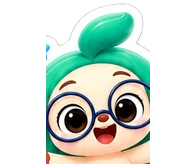
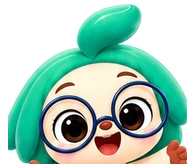
Characters cut free of the sticker, and the animals the games need back
The four friends were cut from the birthday sticker sheet with the white
sticker rim and the floating stars still attached, which read as a cutout
rather than a character. They are now separated by colour instead of by
the sticker's shape: the pale rim and shadow flood away with the
background, and only the largest painted object survives. What touches a
friend stays (Jeni's flower, Pinkfong's star); what floats beside them
does not. Anchors re-measured, since losing the rim changed the
proportions.

Also restores seven animal pictures. Deleting the old cast took
art/char/bear-idle and six others with it, but core/icons.js points
learning emoji at those same files — so a frog, a fox or a penguin in a
lesson had no picture at all, and the shadow-matching game could deal a
blank card. Thirty-one uses across the curriculum were affected. They are
back as learning pictures only; the cast stays the four party friends.

diff --git a/animal-friends-v2/sw.js b/animal-friends-v2/sw.js
@@ -8,12 +8,13 @@
    Bump VERSION whenever any file changes, or returning visitors
    keep the old copy.
    ============================================================ */
-const VERSION = 'af-naura-1.0.0';
+const VERSION = 'af-naura-1.1.0';
 
 const FILES = [
   './', 'index.html', 'privacy.html', 'manifest.webmanifest', 'icon.svg', 'icon-192.png', 'icon-512.png',
   'vendor/three.min.js', 'vendor/fredoka.woff2',
   'art/bg-meadow.jpg', 'art/bg-abc.jpg', 'art/bg-stem.jpg', 'art/bg-heart.jpg', 'art/bg-play.jpg', 'art/bg-island.jpg', 'art/bg-map.jpg',
+  'art/char/bear-idle.webp', 'art/char/fox-idle.webp', 'art/char/frog-idle.webp', 'art/char/penguin-idle.webp', 'art/char/chick-idle.webp', 'art/char/panda-idle.webp', 'art/char/dino-idle.webp',
   'art/char/pinkfong-idle.webp', 'art/char/pinkfong-face.webp', 'art/char/hogi-idle.webp', 'art/char/hogi-face.webp', 'art/char/jeni-idle.webp', 'art/char/jeni-face.webp', 'art/char/poki-idle.webp', 'art/char/poki-face.webp',
   'art/party/party-logo.webp', 'art/party/party-banner.webp', 'art/party/party-cake.webp', 'art/party/party-gift.webp', 'art/party/party-star.webp', 'art/party/party-wand.webp', 'art/party/party-thanks.webp', 'art/party/party-treats.webp',
   'art/pic/act-brokenheart.webp', 'art/pic/act-clap.webp', 'art/pic/act-crash.webp', 'art/pic/act-flowers.webp', 'art/pic/act-grab.webp', 'art/pic/act-handup.webp', 'art/pic/act-hide.webp', 'art/pic/act-hit.webp', 'art/pic/act-jump.webp', 'art/pic/act-leftout.webp', 'art/pic/act-look.webp', 'art/pic/act-no.webp', 'art/pic/act-please.webp', 'art/pic/act-run.webp', 'art/pic/act-scrub.webp', 'art/pic/act-share.webp', 'art/pic/act-stop.webp', 'art/pic/act-stophand.webp', 'art/pic/act-talk.webp', 'art/pic/act-thanks.webp', 'art/pic/act-thumbsdown.webp', 'art/pic/act-touch.webp', 'art/pic/act-walkaway.webp', 'art/pic/act-wave.webp', 'art/pic/arm.webp', 'art/pic/arrow-down.webp', 'art/pic/arrow-up.webp', 'art/pic/ball-blue.webp', 'art/pic/ball-green.webp', 'art/pic/ball-orange.webp', 'art/pic/ball-purple.webp', 'art/pic/ball-red.webp', 'art/pic/ball-yellow.webp', 'art/pic/bath.webp', 'art/pic/coat.webp', 'art/pic/dress.webp', 'art/pic/ear.webp', 'art/pic/eye.webp', 'art/pic/face-angry.webp', 'art/pic/face-awake.webp', 'art/pic/face-bored.webp', 'art/pic/face-brushing.webp', 'art/pic/face-calm.webp', 'art/pic/face-cold.webp', 'art/pic/face-excited.webp', 'art/pic/face-eyeroll.webp', 'art/pic/face-gentle.webp', 'art/pic/face-happy.webp', 'art/pic/face-hot.webp', 'art/pic/face-huffing.webp', 'art/pic/face-hug.webp', 'art/pic/face-hurt.webp', 'art/pic/face-laugh.webp', 'art/pic/face-leftout.webp', 'art/pic/face-proud.webp', 'art/pic/face-quiet.webp', 'art/pic/face-sad.webp', 'art/pic/face-scared.webp', 'art/pic/face-shh.webp', 'art/pic/face-shy.webp', 'art/pic/face-sick.webp', 'art/pic/face-sleepy.webp', 'art/pic/face-slight.webp', 'art/pic/face-smile-big.webp', 'art/pic/face-sneeze.webp', 'art/pic/face-surprised.webp', 'art/pic/face-teasing.webp', 'art/pic/face-thinking.webp', 'art/pic/face-tongue.webp', 'art/pic/face-wink.webp', 'art/pic/face-worried.webp', 'art/pic/face-yawn.webp', 'art/pic/face-yummy.webp', 'art/pic/face-zip.webp', 'art/pic/foot.webp', 'art/pic/gloves.webp', 'art/pic/hand.webp', 'art/pic/heart-blue.webp', 'art/pic/helmet.webp', 'art/pic/job-artist.webp', 'art/pic/job-astronaut.webp', 'art/pic/job-child.webp', 'art/pic/job-cook.webp', 'art/pic/job-doctor.webp', 'art/pic/job-farmer.webp', 'art/pic/job-firefighter.webp', 'art/pic/job-girl.webp', 'art/pic/job-man.webp', 'art/pic/job-pilot.webp', 'art/pic/job-shophelper.webp', 'art/pic/job-teacher.webp', 'art/pic/leg.webp', 'art/pic/mouth.webp', 'art/pic/question.webp', 'art/pic/recycle.webp', 'art/pic/shower.webp', 'art/pic/sneaker.webp', 'art/pic/soap.webp', 'art/pic/socks.webp', 'art/pic/tap.webp', 'art/pic/tile-green.webp', 'art/pic/tile-orange.webp', 'art/pic/tile-purple.webp', 'art/pic/tongue.webp', 'art/pic/tooth.webp', 'art/pic/toothbrush.webp', 'art/pic/towel.webp', 'art/pic/trousers.webp', 'art/pic/tshirt.webp',

diff --git a/animal-friends-v2/core/art.js b/animal-friends-v2/core/art.js
@@ -686,10 +686,10 @@
     wave: 'idle', walk: 'idle', point: 'idle', sit: 'idle' };
   //           hat: [x, bottom y, width]  eyes: [x, y, width]  neck: [x, y, width]  hand: [x, y]
   const ANCHOR = {         // measured on each friend's own painted picture
-    pinkfong: { hat: [51, 24, 40], eyes: [52, 38, 34], neck: [50, 55, 32], hand: [83, 48] },
-    hogi:     { hat: [55, 24, 44], eyes: [56, 42, 40], neck: [55, 58, 36], hand: [80, 56] },
-    jeni:     { hat: [54, 31, 32], eyes: [55, 46, 28], neck: [54, 62, 26], hand: [76, 56] },
-    poki:     { hat: [65, 24, 32], eyes: [66, 42, 28], neck: [64, 60, 24], hand: [42, 34] }
+    pinkfong: { hat: [54, 20, 40], eyes: [56, 36, 34], neck: [53, 54, 32], hand: [86, 42] },
+    hogi:     { hat: [57, 26, 44], eyes: [58, 42, 42], neck: [57, 60, 38], hand: [83, 56] },
+    jeni:     { hat: [55, 32, 32], eyes: [56, 46, 28], neck: [55, 62, 26], hand: [76, 54] },
+    poki:     { hat: [63, 26, 34], eyes: [64, 42, 30], neck: [62, 60, 26], hand: [40, 38] }
   };
 
   const WEAR_ART = {
